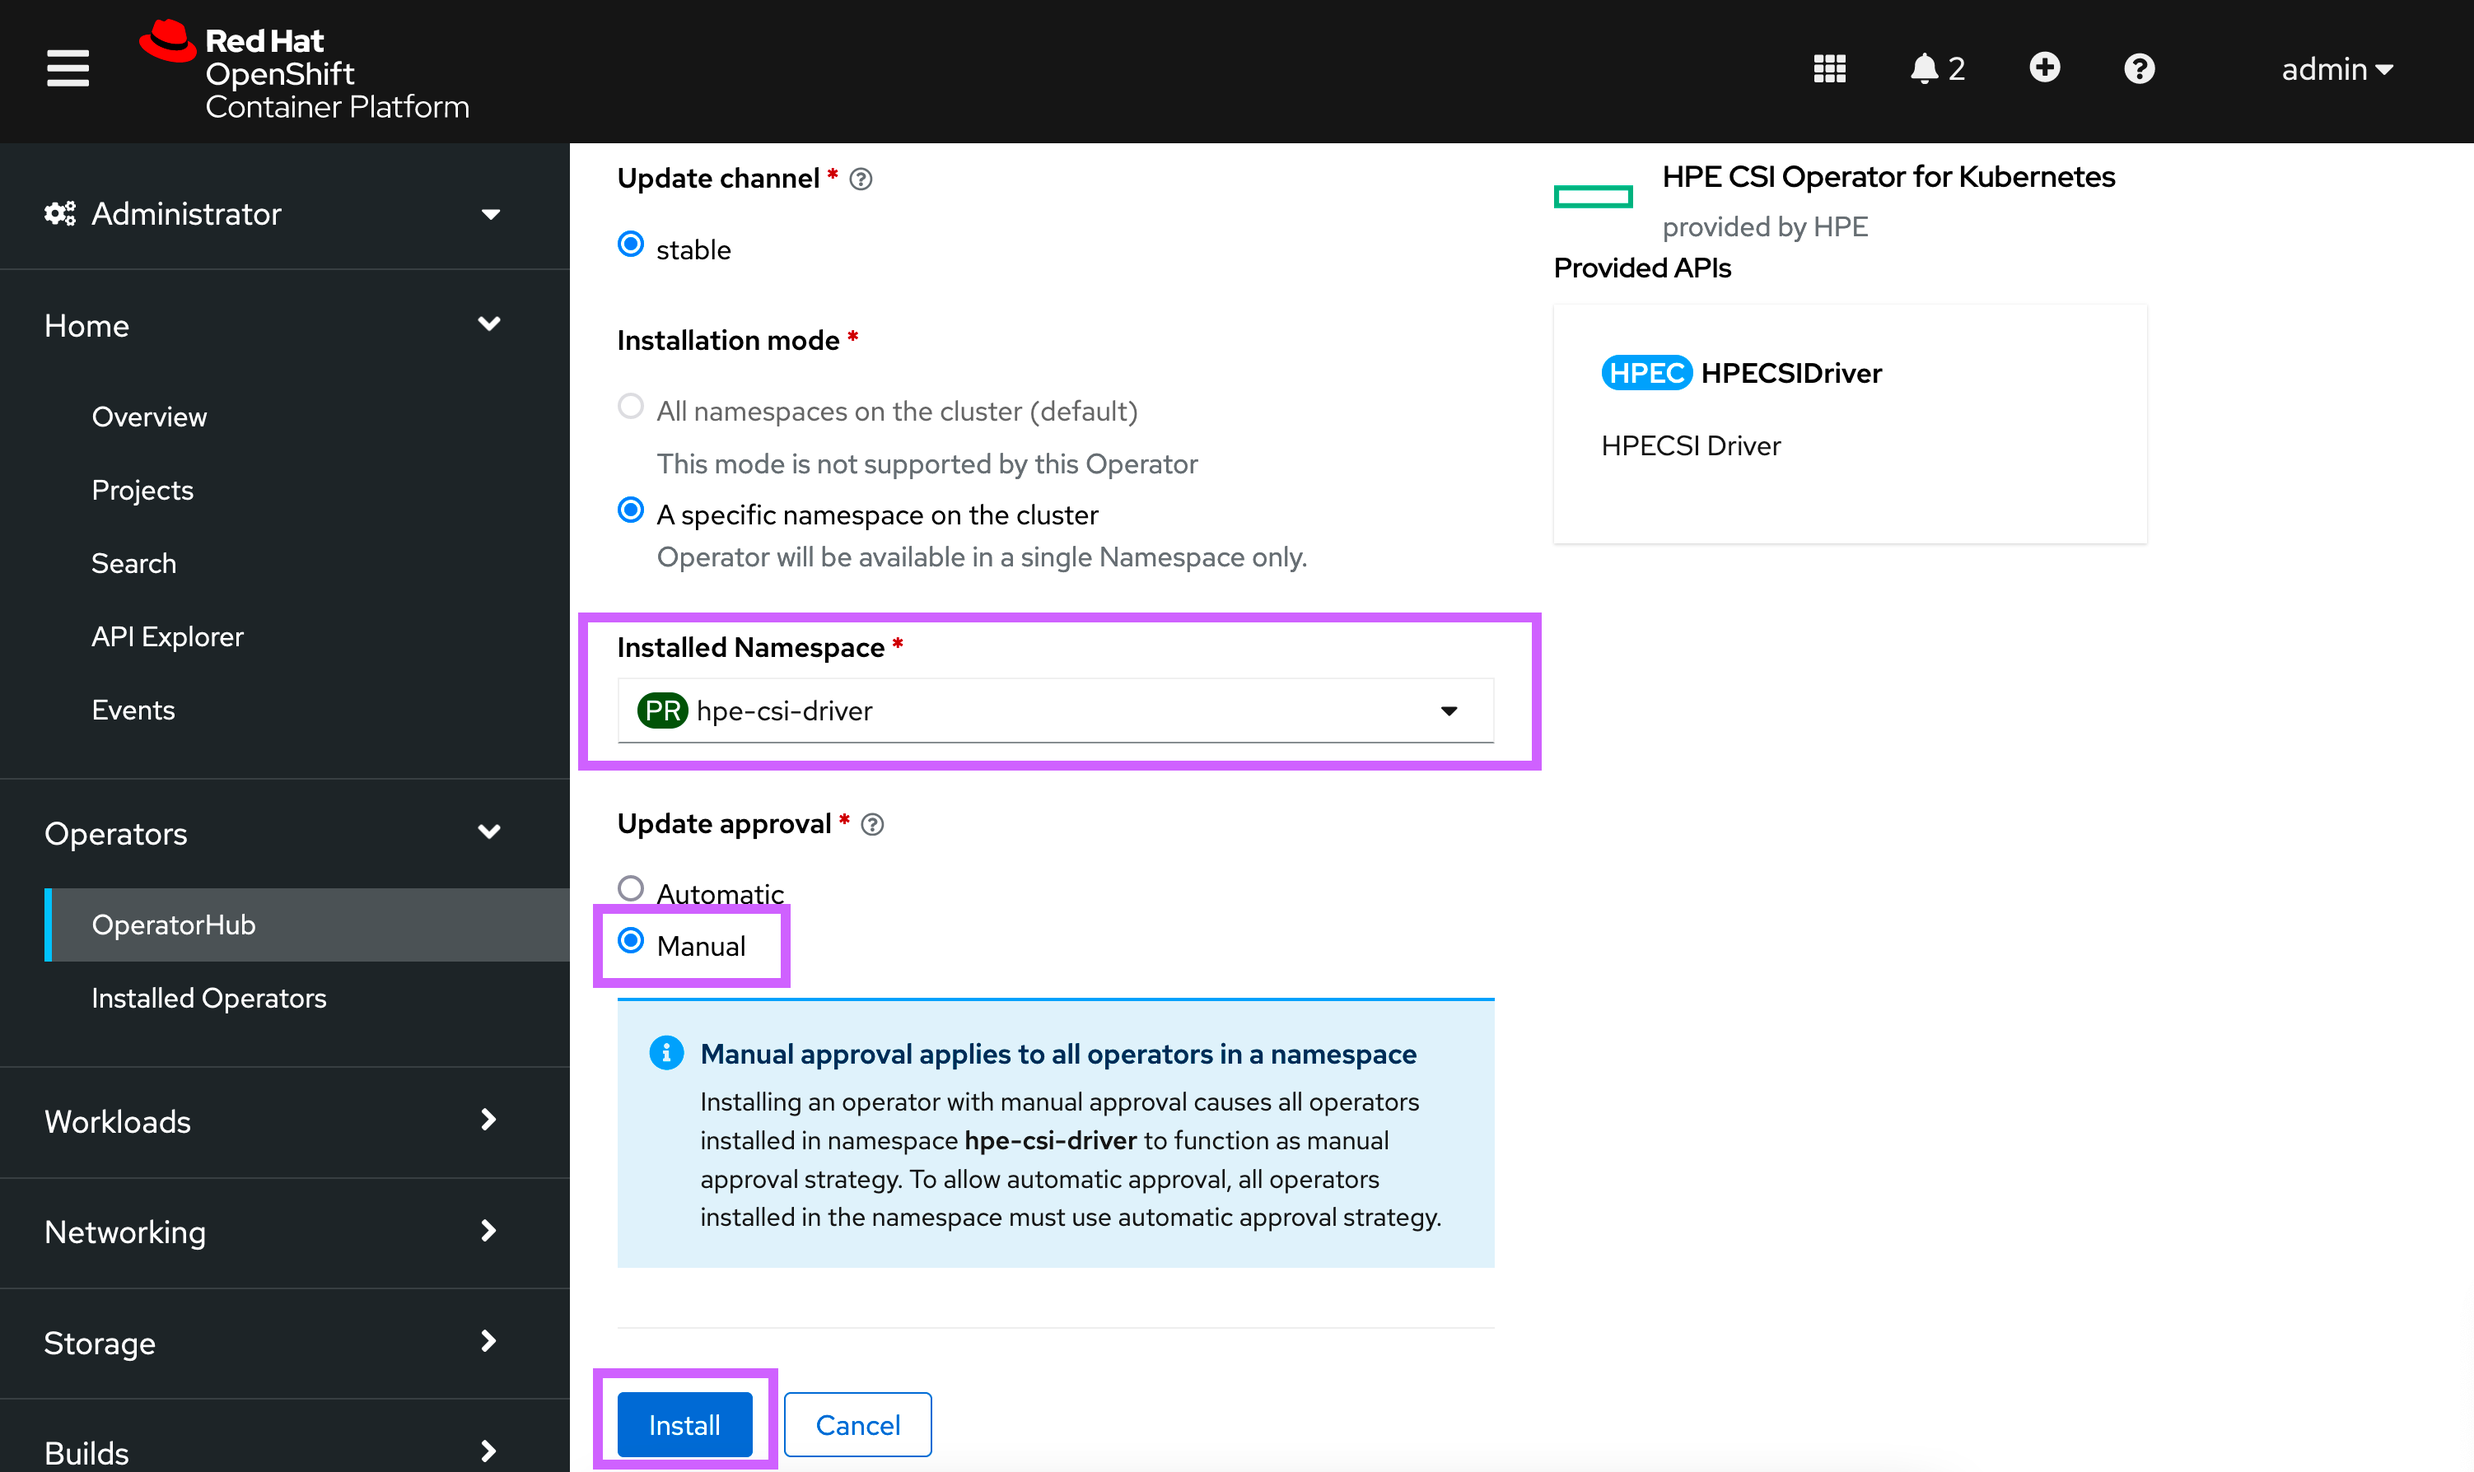
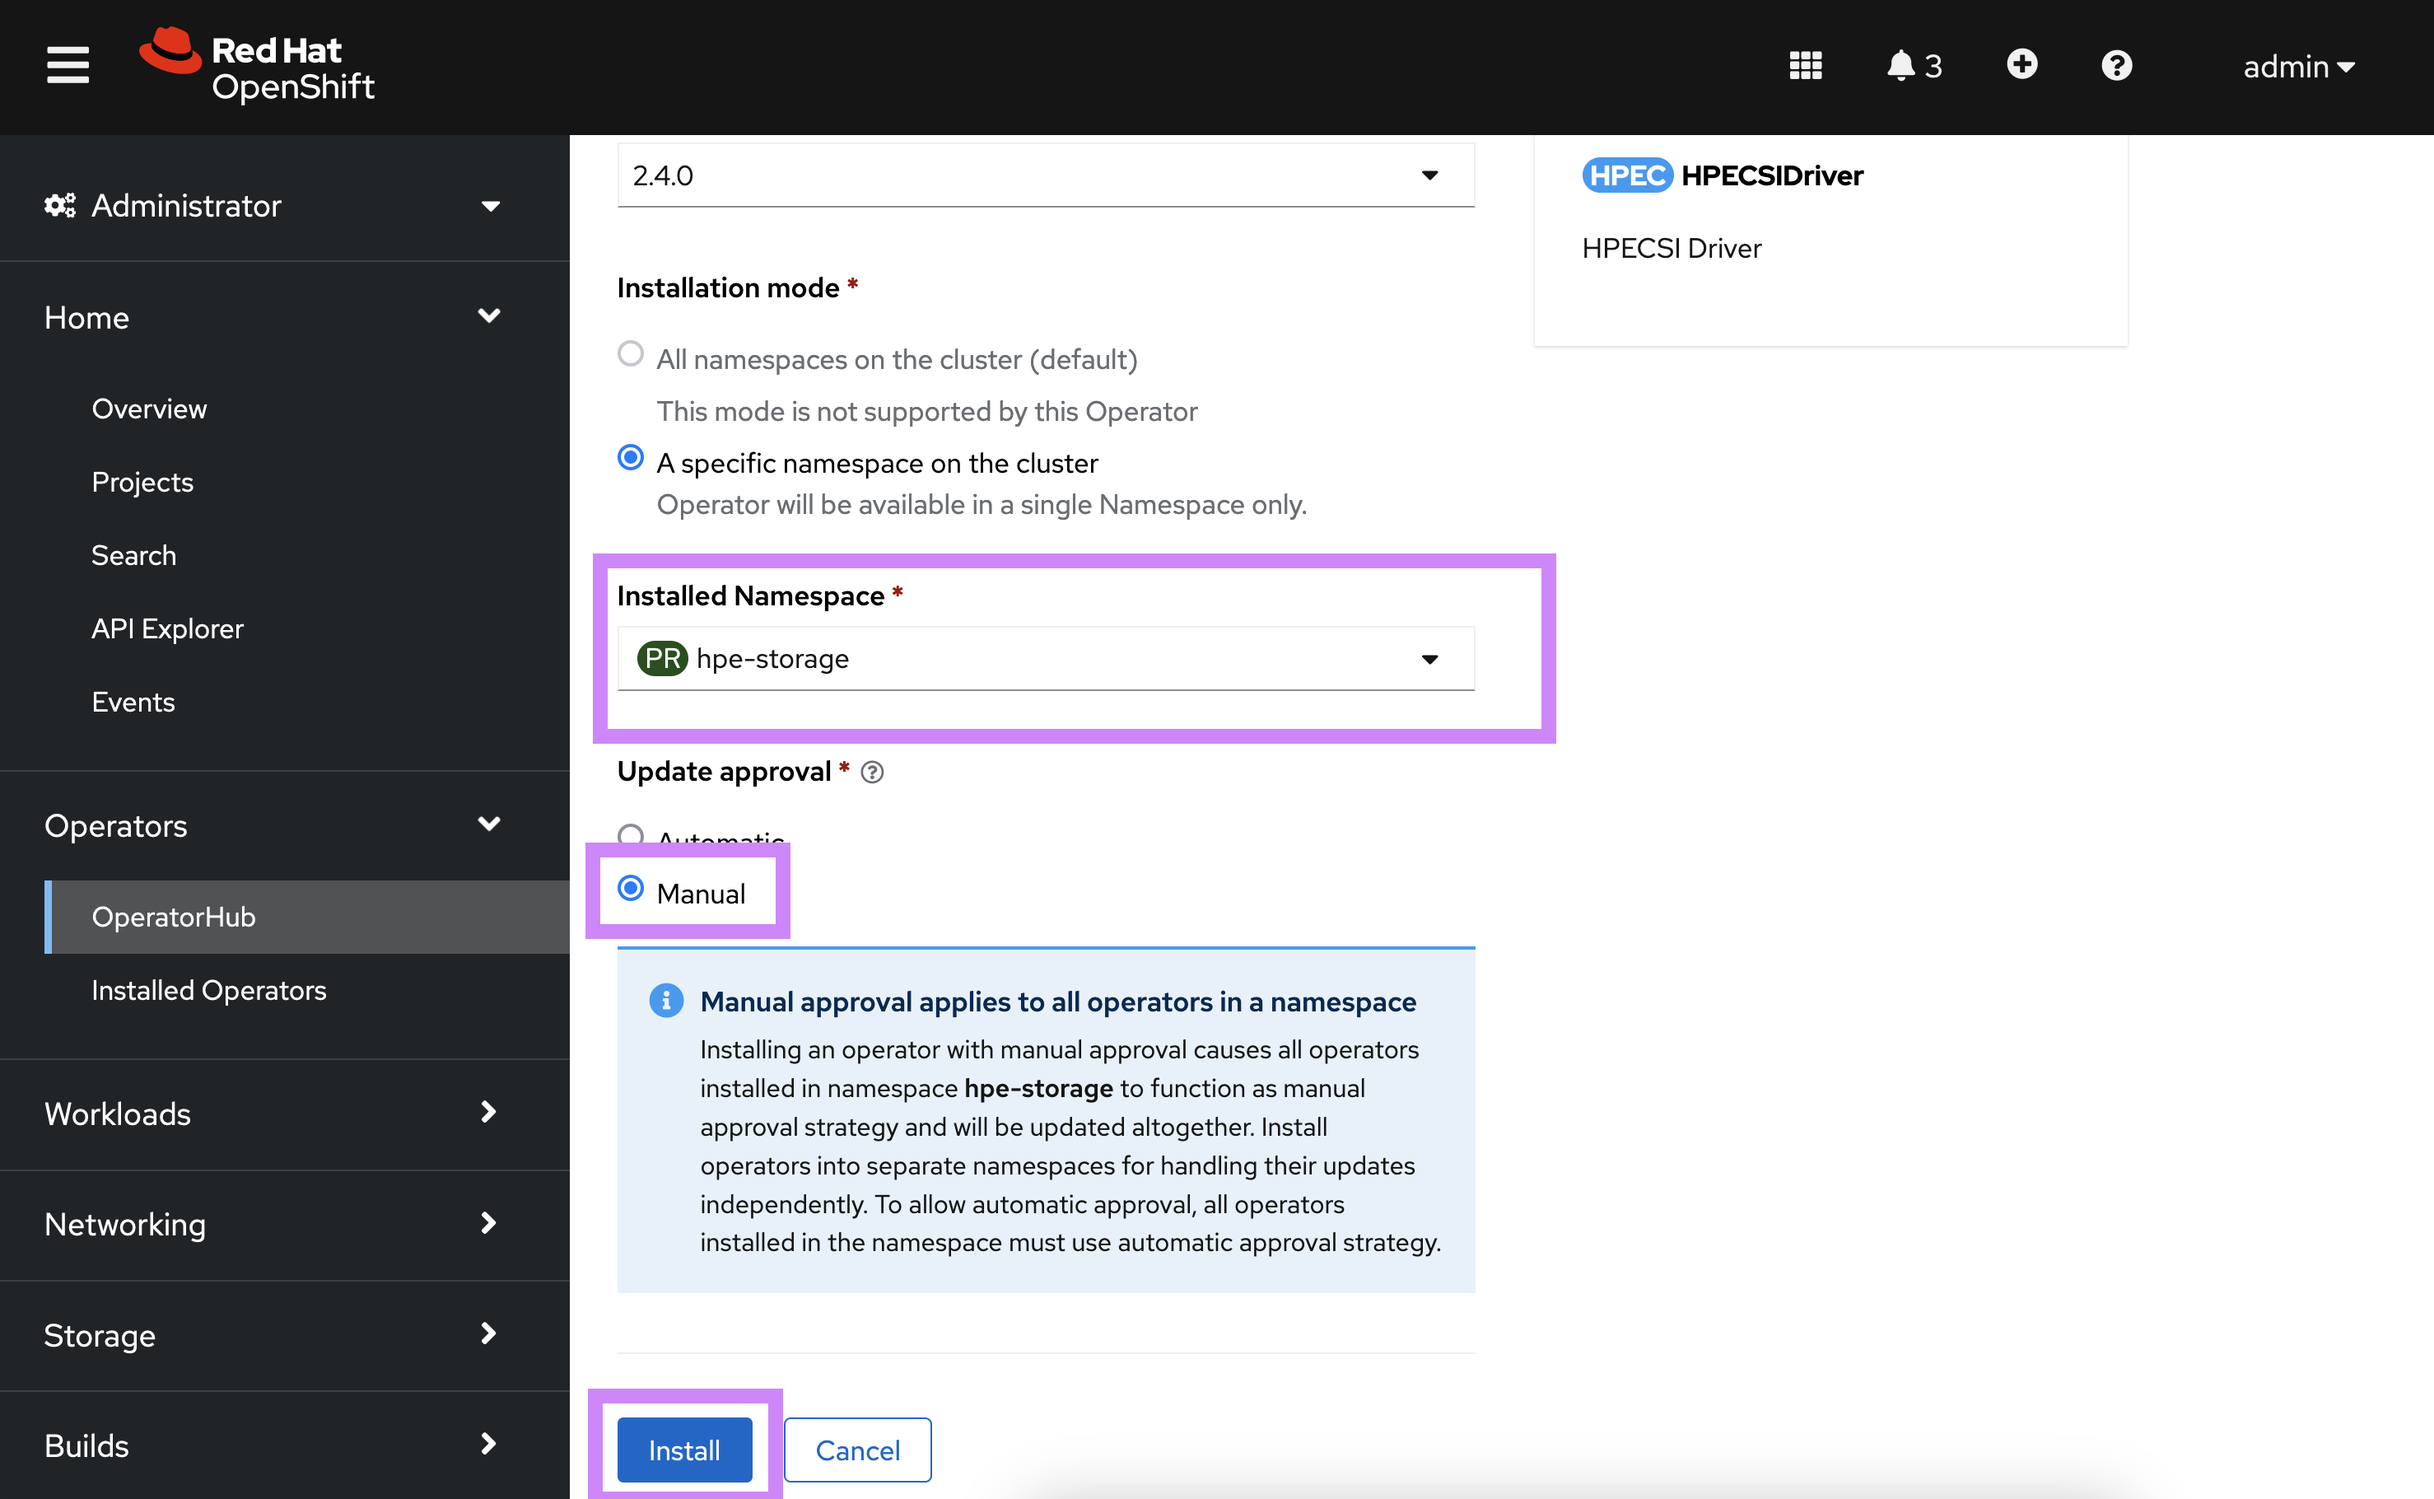
2.4.0 instructions and broken out SCCs (#189)

diff --git a/docs/partners/redhat_openshift/index.md b/docs/partners/redhat_openshift/index.md
@@ -1,6 +1,5 @@
-<img src="img/redhat-certified.png" align="right" width="160" hspace="20" vspace="20" />
-
 # Overview
+<img src="img/redhat-certified.png" align="right" width="256" hspace="12" vspace="2" />
 HPE and Red Hat have a long standing partnership to provide jointly supported software, platform and services with the absolute best customer experience in the industry.
 
 Red Hat OpenShift uses open source Kubernetes and various other components to deliver a PaaS experience that benefits both developers and operations. This packaged experience differs slightly on how you would deploy and use the HPE volume drivers and this page serves as the authoritative source for all things HPE primary storage and Red Hat OpenShift.
@@ -54,6 +53,7 @@ Since the CSI Operator only provides "Basic Install" capabilities. The following
 
 - The `ConfigMap` "hpe-linux-config" that controls host configuration is immutable
 - The NFS Server Provisioner can not be used with Operators deploying `PersistentVolumeClaims` as part of the installation. See [#295](https://github.com/hpe-storage/csi-driver/issues/295) on GitHub.
+- Deploying the NFS Server Provisioner to a `Namespace` other than "hpe-nfs" requires a separate SCC applied to the `Namespace`. See [#nfs_server_provisioner_considerations](NFS Server Provisioner Considerations).
 
 ### Deployment
 
@@ -86,28 +86,22 @@ Once the steps have been followed for the particular version transition:
 
 The HPE CSI Driver needs to run in privileged mode and needs access to host ports, host network and should be able to mount hostPath volumes. Hence, before deploying HPE CSI Operator on OpenShift, please create the following `SecurityContextConstraints` (SCC) to allow the CSI driver to be running with these privileges.
 
-Download the SCC to where you have access to `oc` and the OpenShift cluster:
-
 ```text
-curl -sL https://raw.githubusercontent.com/hpe-storage/co-deployments/master/operators/hpe-csi-operator/deploy/scc.yaml > hpe-csi-scc.yaml
-```
-
-Change `my-hpe-csi-operator` to the name of the project (e.g. `hpe-csi-driver` below) where the CSI Operator is being deployed.
-
-```text
-oc new-project hpe-csi-driver --display-name="HPE CSI Driver for Kubernetes"
-sed -i'' -e 's/my-hpe-csi-driver-operator/hpe-csi-driver/g' hpe-csi-scc.yaml
-```
-
-Deploy the SCC:
-
-```text
-oc create -f hpe-csi-scc.yaml
-securitycontextconstraints.security.openshift.io/hpe-csi-scc created
+oc new-project hpe-storage --display-name="HPE CSI Driver for Kubernetes"
 ```
 
 !!! important
-    Make note of the project name as it's needed for the Operator deployment in the next steps.
+    The rest of this implementation guide assumes the default "hpe-storage" `Namespace`. If a different `Namespace` is desired. Update the `ServiceAccount` `Namespace` in the SCC below.
+
+Deploy or [download]({{ config.site_url}}partners/redhat_openshift/examples/scc/hpe-csi-scc.yaml) the SCC:
+
+```text
+oc apply -f {{ config.site_url}}partners/redhat_openshift/examples/scc/hpe-csi-scc.yaml
+securitycontextconstraints.security.openshift.io/hpe-csi-controller-scc created
+securitycontextconstraints.security.openshift.io/hpe-csi-node-scc created
+securitycontextconstraints.security.openshift.io/hpe-csi-csp-scc created
+securitycontextconstraints.security.openshift.io/hpe-csi-nfs-scc created
+```
 
 #### OpenShift web console
 
@@ -132,7 +126,7 @@ Once the SCC has been applied to the project, login to the OpenShift web console
 *Click 'Create Instance'.*
 
 ![Configure instance](img/webcon-6.png)
-*Normally, no customizations are needed, click 'Create'.*
+*Normally, no customizations are needed, scroll all the way down and click 'Create'.*
 
 By navigating to the Developer view, it should now be possible to inspect the CSI driver and Operator topology.
 
@@ -146,7 +140,7 @@ See [Caveats](#caveats) below for information on creating `StorageClasses` in Re
 
 This provides an example Operator deployment using `oc`. If you want to use the web console, proceed to the [previous section](#openshift_web_console).
 
-It's assumed the SCC has been applied to the project and have `kube:admin` privileges. As an example, we'll deploy to the `hpe-csi-driver` project as described in previous steps.
+It's assumed the SCC has been applied to the project and have `kube:admin` privileges. As an example, we'll deploy to the `hpe-storage` project as described in previous steps.
 
 First, an `OperatorGroup` needs to be created.
 
@@ -155,10 +149,10 @@ apiVersion: operators.coreos.com/v1
 kind: OperatorGroup
 metadata:
   name: hpe-csi-driver-for-kubernetes
-  namespace: hpe-csi-driver
+  namespace: hpe-storage
 spec:
   targetNamespaces:
-  - hpe-csi-driver
+  - hpe-storage
 ```
 
 Next, create a `Subscription` to the Operator.
@@ -168,7 +162,7 @@ apiVersion: operators.coreos.com/v1alpha1
 kind: Subscription
 metadata:
   name: hpe-csi-operator
-  namespace: hpe-csi-driver
+  namespace: hpe-storage
 spec:
   channel: stable
   installPlanApproval: Manual
@@ -180,13 +174,13 @@ spec:
 Next, approve the installation.
 
 ```text
-oc -n hpe-csi-driver patch $(oc get installplans -n hpe-csi-driver -o name) -p '{"spec":{"approved":true}}' --type merge
+oc -n hpe-storage patch $(oc get installplans -n hpe-storage -o name) -p '{"spec":{"approved":true}}' --type merge
 ```
 
 The Operator will now be installed on the OpenShift cluster. Before instantiating a CSI driver, watch the roll-out of the Operator.
 
 ```text
-oc rollout status deploy/hpe-csi-driver-operator -n hpe-csi-driver
+oc rollout status deploy/hpe-csi-driver-operator -n hpe-storage
 Waiting for deployment "hpe-csi-driver-operator" rollout to finish: 0 of 1 updated replicas are available...
 deployment "hpe-csi-driver-operator" successfully rolled out
 ```
@@ -234,6 +228,24 @@ v2.storage.hpe.com
 ```
 
 Please refer to the OLM Lifecycle Manager documentation on how to safely [Uninstall your operator](https://olm.operatorframework.io/docs/tasks/uninstall-operator/).
+
+# NFS Server Provisioner Considerations
+
+When deploying NFS servers on OpenShift there's currently two things to keep in mind for a successful deployment.
+
+## Non-standard hpe-nfs Namespace
+
+If NFS servers are deployed in a different `Namespace` than the default "hpe-nfs" by using the "nfsNamespace" `StorageClass` parameter, the "hpe-csi-nfs-scc" SCC needs to be updated to include the `Namespace` `ServiceAccount`.
+
+This example adds "my-namespace" NFS server `ServiceAccount` to the SCC:
+
+```text
+oc patch scc hpe-csi-nfs-scc --type=json -p='[{"op": "add", "path": "/users/-", "value": "system:serviceaccount:my-namespace:hpe-csi-nfs-sa" }]'
+```
+
+## Operators Requesting NFS Persistent Volume Claims
+
+Object references in OpenShift are not compatible with the NFS Server Provisioner. If a user deploys an Operator of any kind that creates a NFS server backed `PVC`, the operation will fail. Instead, pre-provision the `PVC` manually for the Operator instance to use.
 
 # Unsupported Helm Chart Install
 

diff --git a/docs/csi_driver/using.md b/docs/csi_driver/using.md
@@ -834,6 +834,7 @@ These are some common issues and gotchas that are useful to know about when plan
 - Using the same network interface for NFS and block IO has shown suboptimal performance. Use FC for the block storage for the best performance.
 - A single NFS server instance is capable of 100GigE wirespeed with large sequential workloads and up to 200,000 IOPS with small IO using bare-metal nodes and multiple clients.
 - Using ext4 as the backing filesystem has shown better performance with simultaneous writers to the same file.
+- Additional configuration and considerations may be required when using the NFS Server Provisioner with Red Hat OpenShift. See [NFS Server Provisioner Considerations](../partners/redhat_openshift/index.md#nfs_server_provisioner_considerations) for OpenShift.
 
 See [diagnosing NFS Server Provisioner issues](diagnostics.md#nfs_server_provisioner_resources) for further details.
 
